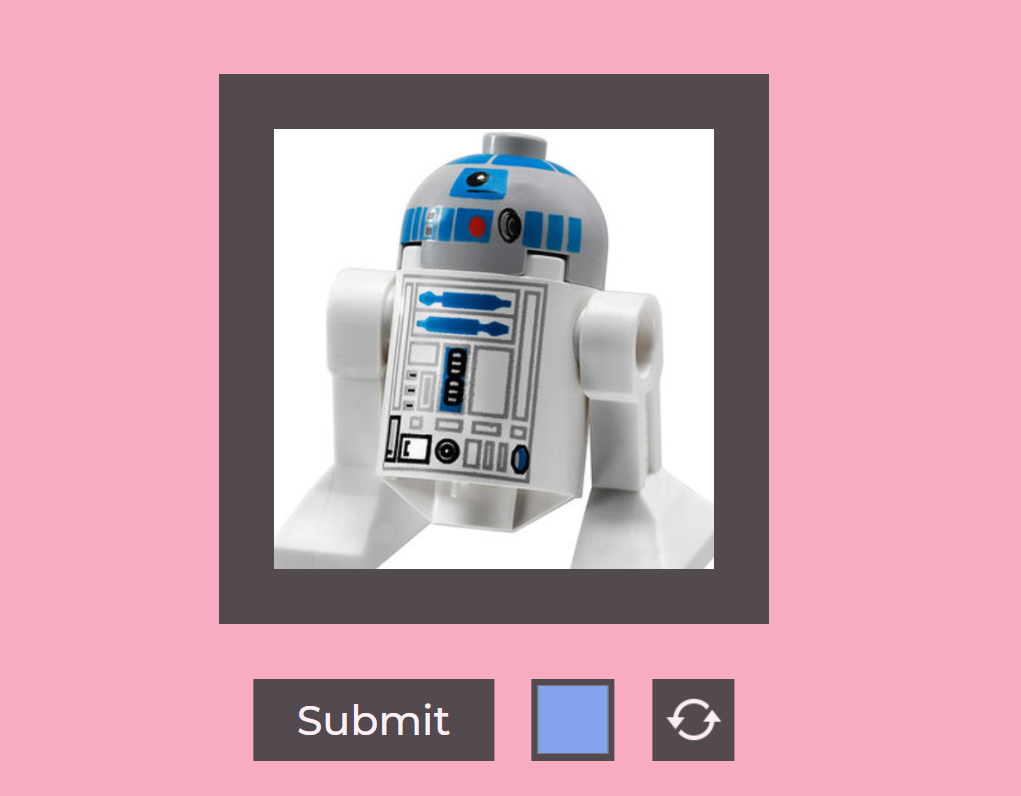
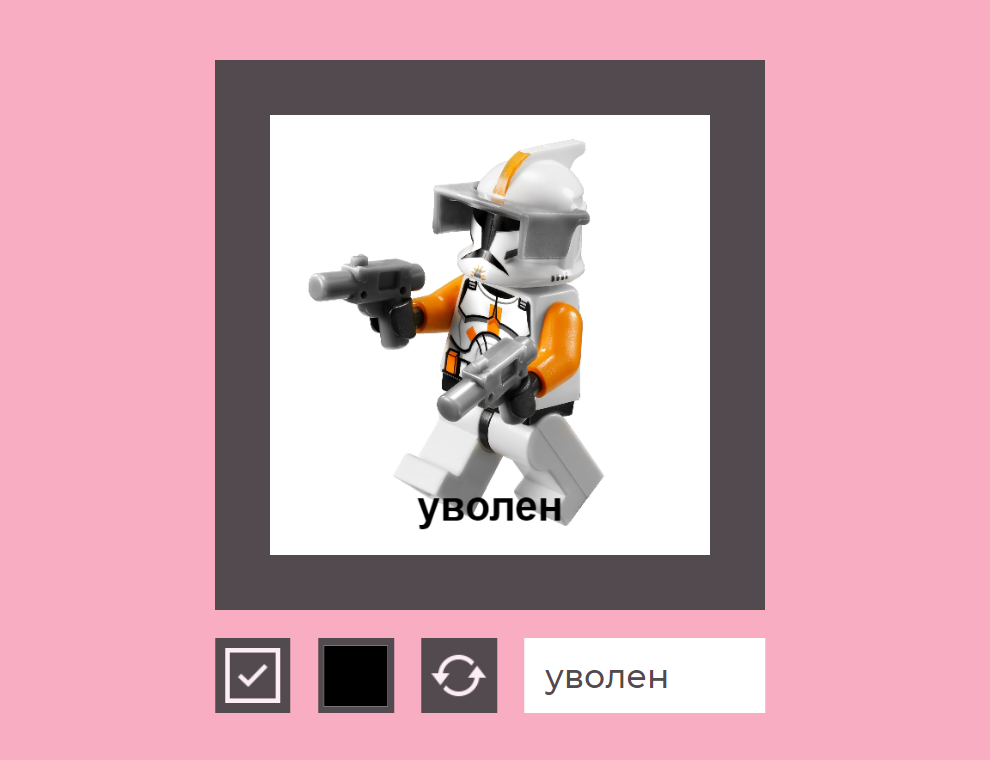
Text and mobile

Changed region(s): [[0.2121, 0.0605, 0.7879, 0.9684]]

diff --git a/styles.css b/styles.css
@@ -23,7 +23,7 @@ section {
     display: flex;
     width: 400px;
     height: 400px;
-    margin-bottom: 40px;
+    margin-bottom: 20px;
     background-color: #524A4E;
 }
 
@@ -74,9 +74,12 @@ section {
     position: absolute;
     left: 50%;
     transform: translate(-50%, 0);
+    flex-wrap: wrap;
+    justify-content: center;
 }
 
 .b-e {
+    width: 55px;
     height: 55px;
     margin: auto 10px;
 }
@@ -95,12 +98,14 @@ button:hover {
     transition: .3s;
 }
 
-#submit {
-    width: 175px;
+.submit-i {
+    margin: auto;
+    width: 40px;
+    height: 40px;
 }
 
 #input-color {
-    width: 55px;
+    width: 100%;
     height: 100%;
     border: none;
     background-color: #524A4E;
@@ -113,14 +118,14 @@ button:hover {
     transition: .3s;
 }
 
-#reload {
-    width: 55px;
-}
-
 .reload-i {
     margin: auto;
     width: 40px;
     height: 40px;
+}
+
+.input-text-class {
+    width: 175px;
 }
 
 #input-text {
@@ -128,8 +133,11 @@ button:hover {
     height: 100%;
     border: none;
     outline: 0;
-    padding: 0;
-    margin: 0;
+    padding: 15px;
+    -webkit-box-sizing: border-box;
+    -moz-box-sizing: border-box;
+    box-sizing: border-box;
+
     font-size: 24px;
     font-family: "Montserrat Medium", sans-serif;
     color: #524A4E;
@@ -152,27 +160,41 @@ button:hover {
     font-size: 30px;
 }
 
-/*@media only screen and (max-width: 1000px) {*/
-/*    .block {*/
-/*        width: 700px;*/
-/*        height: 700px;*/
-/*        margin-bottom: 60px;*/
-/*    }*/
+@media only screen and (max-width: 1000px) {
+    .block {
+        width: 700px;
+        height: 700px;
+        margin-bottom: 60px;
+    }
 
-/*    #submit {*/
-/*        width: 275px;*/
-/*        height: 80px;*/
-/*    }*/
+    .b-e {
+        height: 90px;
+        width: 90px;
+        margin: 10px;
+    }
 
-/*    .text-type-1 {*/
-/*        font-family: "Montserrat Medium", sans-serif;*/
-/*        color: #524A4E;*/
-/*        font-size: 55px;*/
-/*    }*/
+    .submit-i {
+        width: 50px;
+        height: 50px;
+    }
 
-/*    .text-type-2 {*/
-/*        font-family: "Montserrat Medium", sans-serif;*/
-/*        color: #FDEFF4;*/
-/*        font-size: 45px;*/
-/*    }*/
-/*}*/
+    .reload-i {
+        width: 50px;
+        height: 50px;
+    }
+
+    .input-text-class {
+        width: 310px;
+    }
+
+    #input-text {
+        width: 310px;
+        font-size: 34px;
+    }
+
+    .text-type-2 {
+        font-family: "Montserrat Medium", sans-serif;
+        color: #FDEFF4;
+        font-size: 45px;
+    }
+}

diff --git a/main.js b/main.js
@@ -21,7 +21,12 @@ canvas.addEventListener('mousemove', mouseEvent, {passive: true});
 canvas.addEventListener('mousedown', mouseEvent, {passive: true});
 canvas.addEventListener('mouseup', mouseEvent, {passive: true});
 canvas.addEventListener('mouseout', mouseEvent, {passive: true});
+
 canvas.addEventListener('wheel', mouseWheelEvent, {passive: false});
+
+canvas.addEventListener('touchstart', mouseEvent);
+canvas.addEventListener('touchmove', mouseEvent);
+canvas.addEventListener('touchend', mouseEvent);
 
 function update() {
     dirty = false;
@@ -53,18 +58,18 @@ function drawCanvas() {
         ctx.setTransform(matrix[0], matrix[1], matrix[2], matrix[3], matrix[4], matrix[5]);
         ctx.drawImage(image, 0, 0);
         ctx.resetTransform();
-        ctx.font = '48px sans-serif';
+        ctx.font = 'bold 48px sans-serif';
         ctx.fillStyle = '#000';
         ctx.textAlign = 'center';
-        ctx.fillText(text, canvas.width / 2, canvas.height - 50);
+        ctx.fillText(text, canvas.width / 2, canvas.height - 40);
     }
     requestAnimationFrame(drawCanvas);
 }
 
 function mouseEvent(e) {
-    if (e.type === 'mousedown')
+    if (e.type === 'mousedown' || e.type === 'touchstart')
         mouse.dragging = true;
-    if (e.type === 'mouseup' || e.type === 'mouseout')
+    if (e.type === 'mouseup' || e.type === 'mouseout' || e.type === 'touchend')
         mouse.dragging = false;
     mouse.oldX = mouse.x;
     mouse.oldY = mouse.y;

diff --git a/index.html b/index.html
@@ -18,7 +18,7 @@
     </div>
     <div id="buttons">
         <button id="submit" class="b-e" onclick="download()">
-            <span class="text text-type-2">Submit</span>
+            <img class="submit-i" src="icons/tick.png" alt="">
         </button>
         <label class="b-e">
             <input id="input-color" type="color" title="Change background color">
@@ -26,8 +26,8 @@
         <button id="reload" class="b-e" onclick="document.location.reload();" title="Reload">
             <img class="reload-i" src="icons/reload.png" alt="">
         </button>
-        <label class="b-e">
-            <input id="input-text" class="b-e" type="text" placeholder="Enter text" maxlength="16">
+        <label class="input-text-class b-e">
+            <input id="input-text" type="text" placeholder="Enter text" maxlength="12">
         </label>
     </div>
 </section>

diff --git a/README.md b/README.md
@@ -3,4 +3,4 @@
 
 ## [(⊙_⊙) Рабочий сайт](https://converter-to-telegram-stickers.github.io/)  
 
-![Image](readme.png)
+[Image](readme.png)
